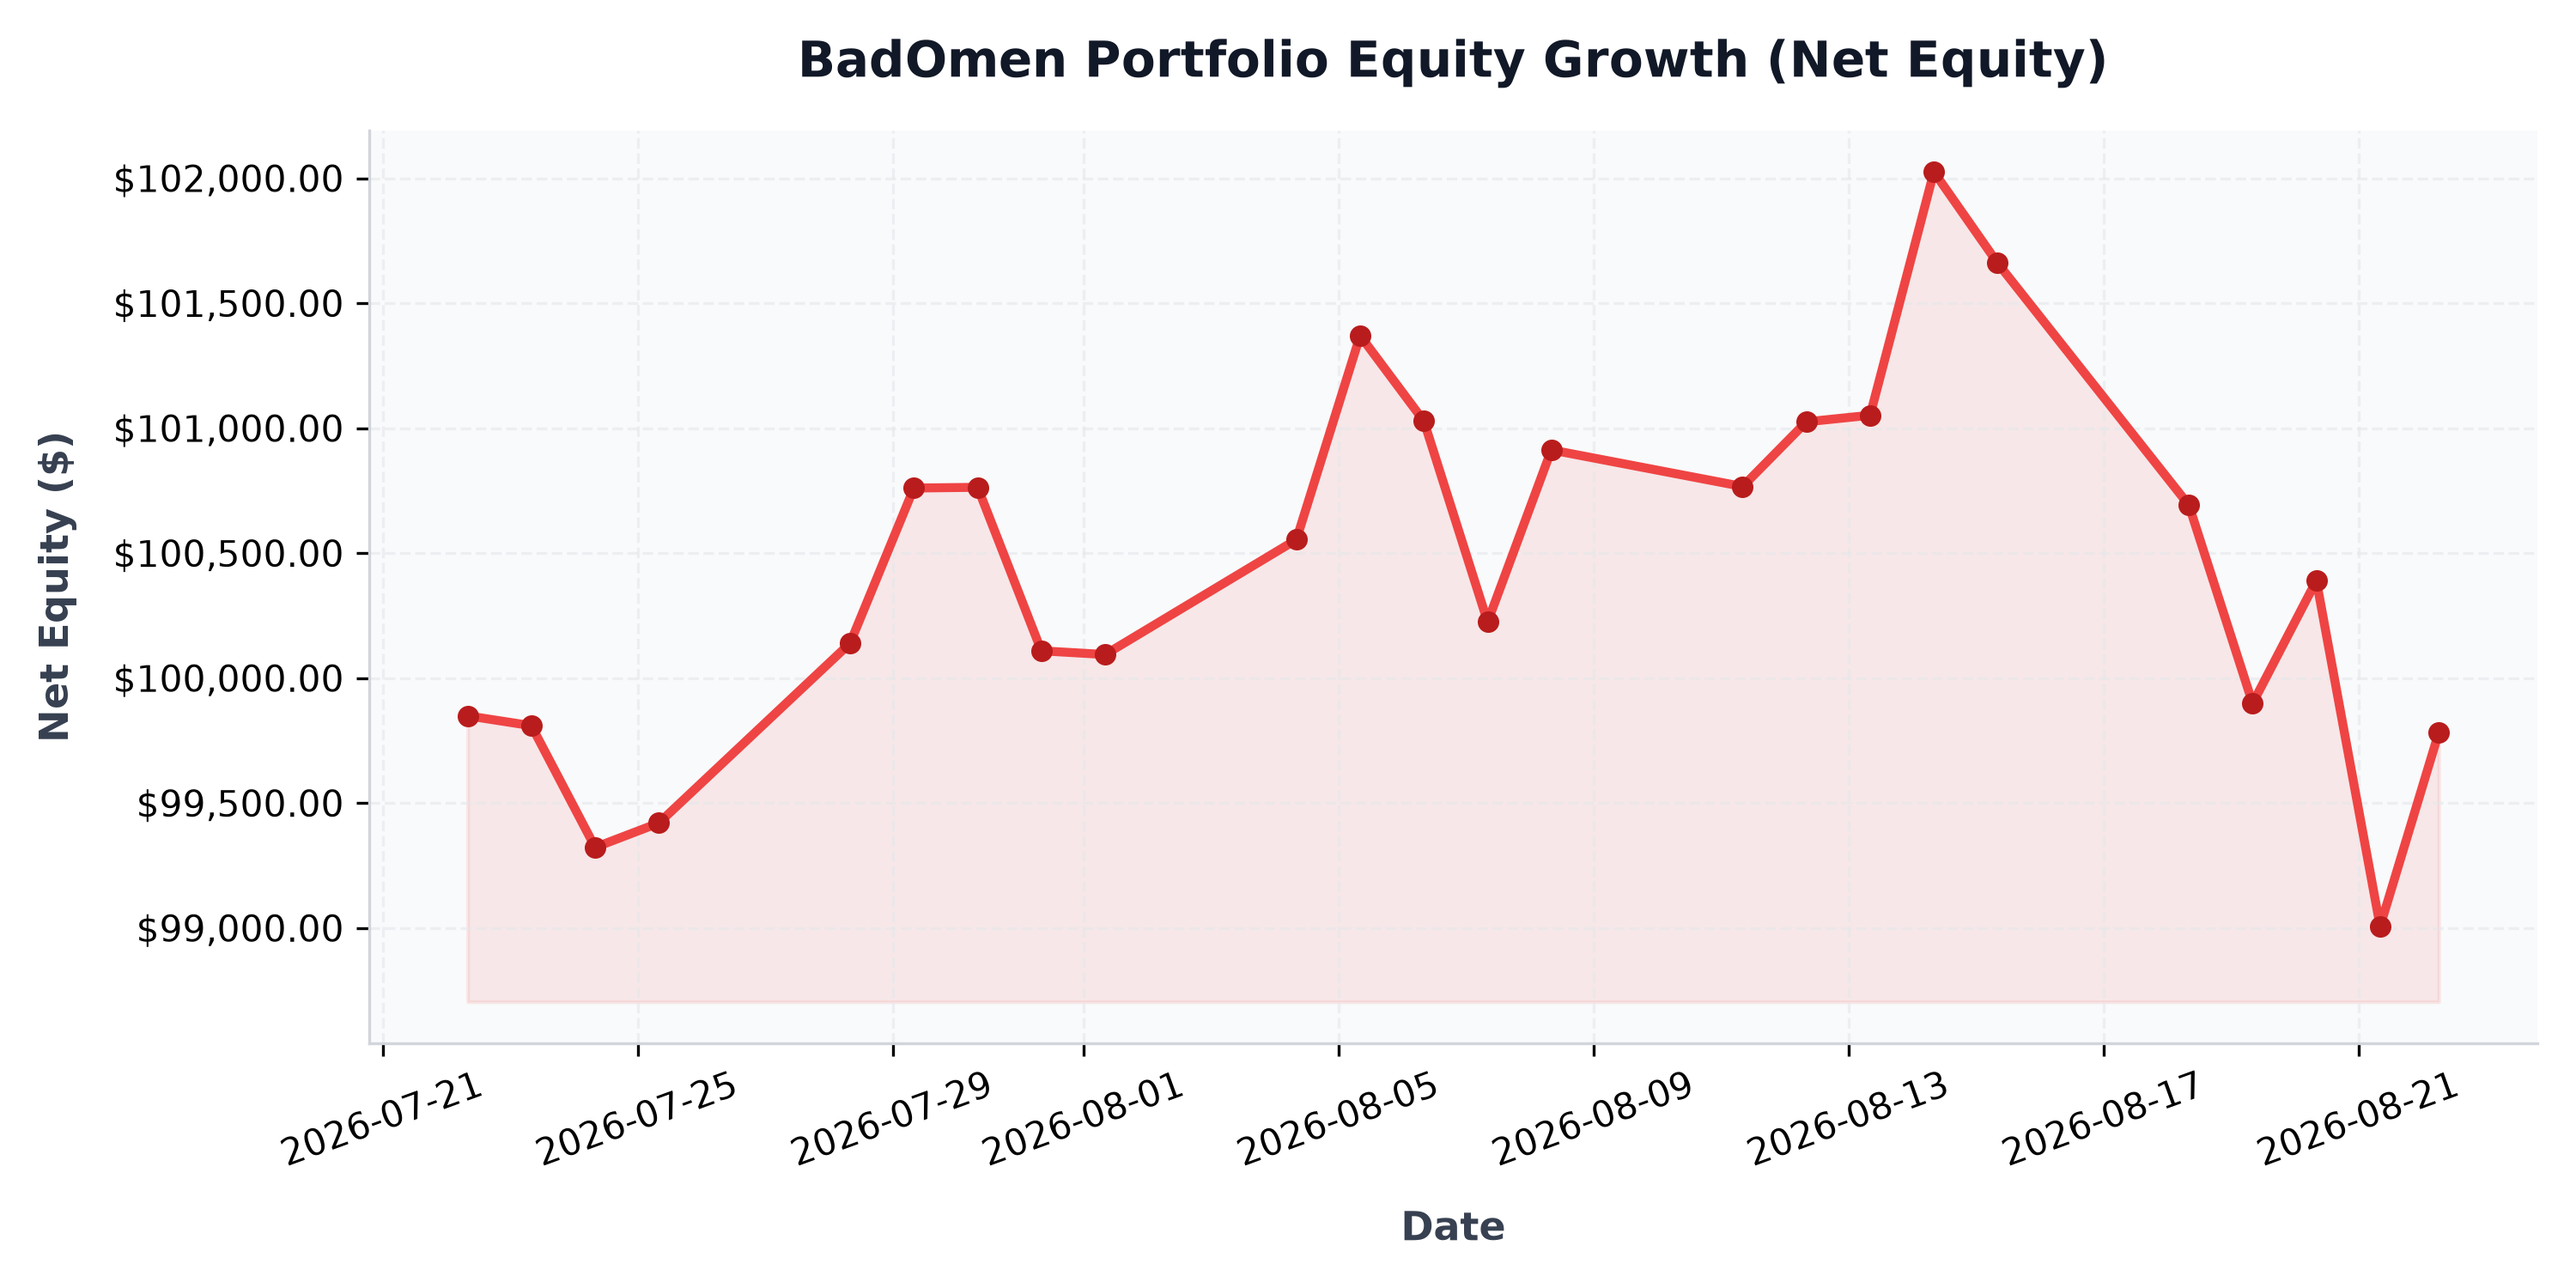
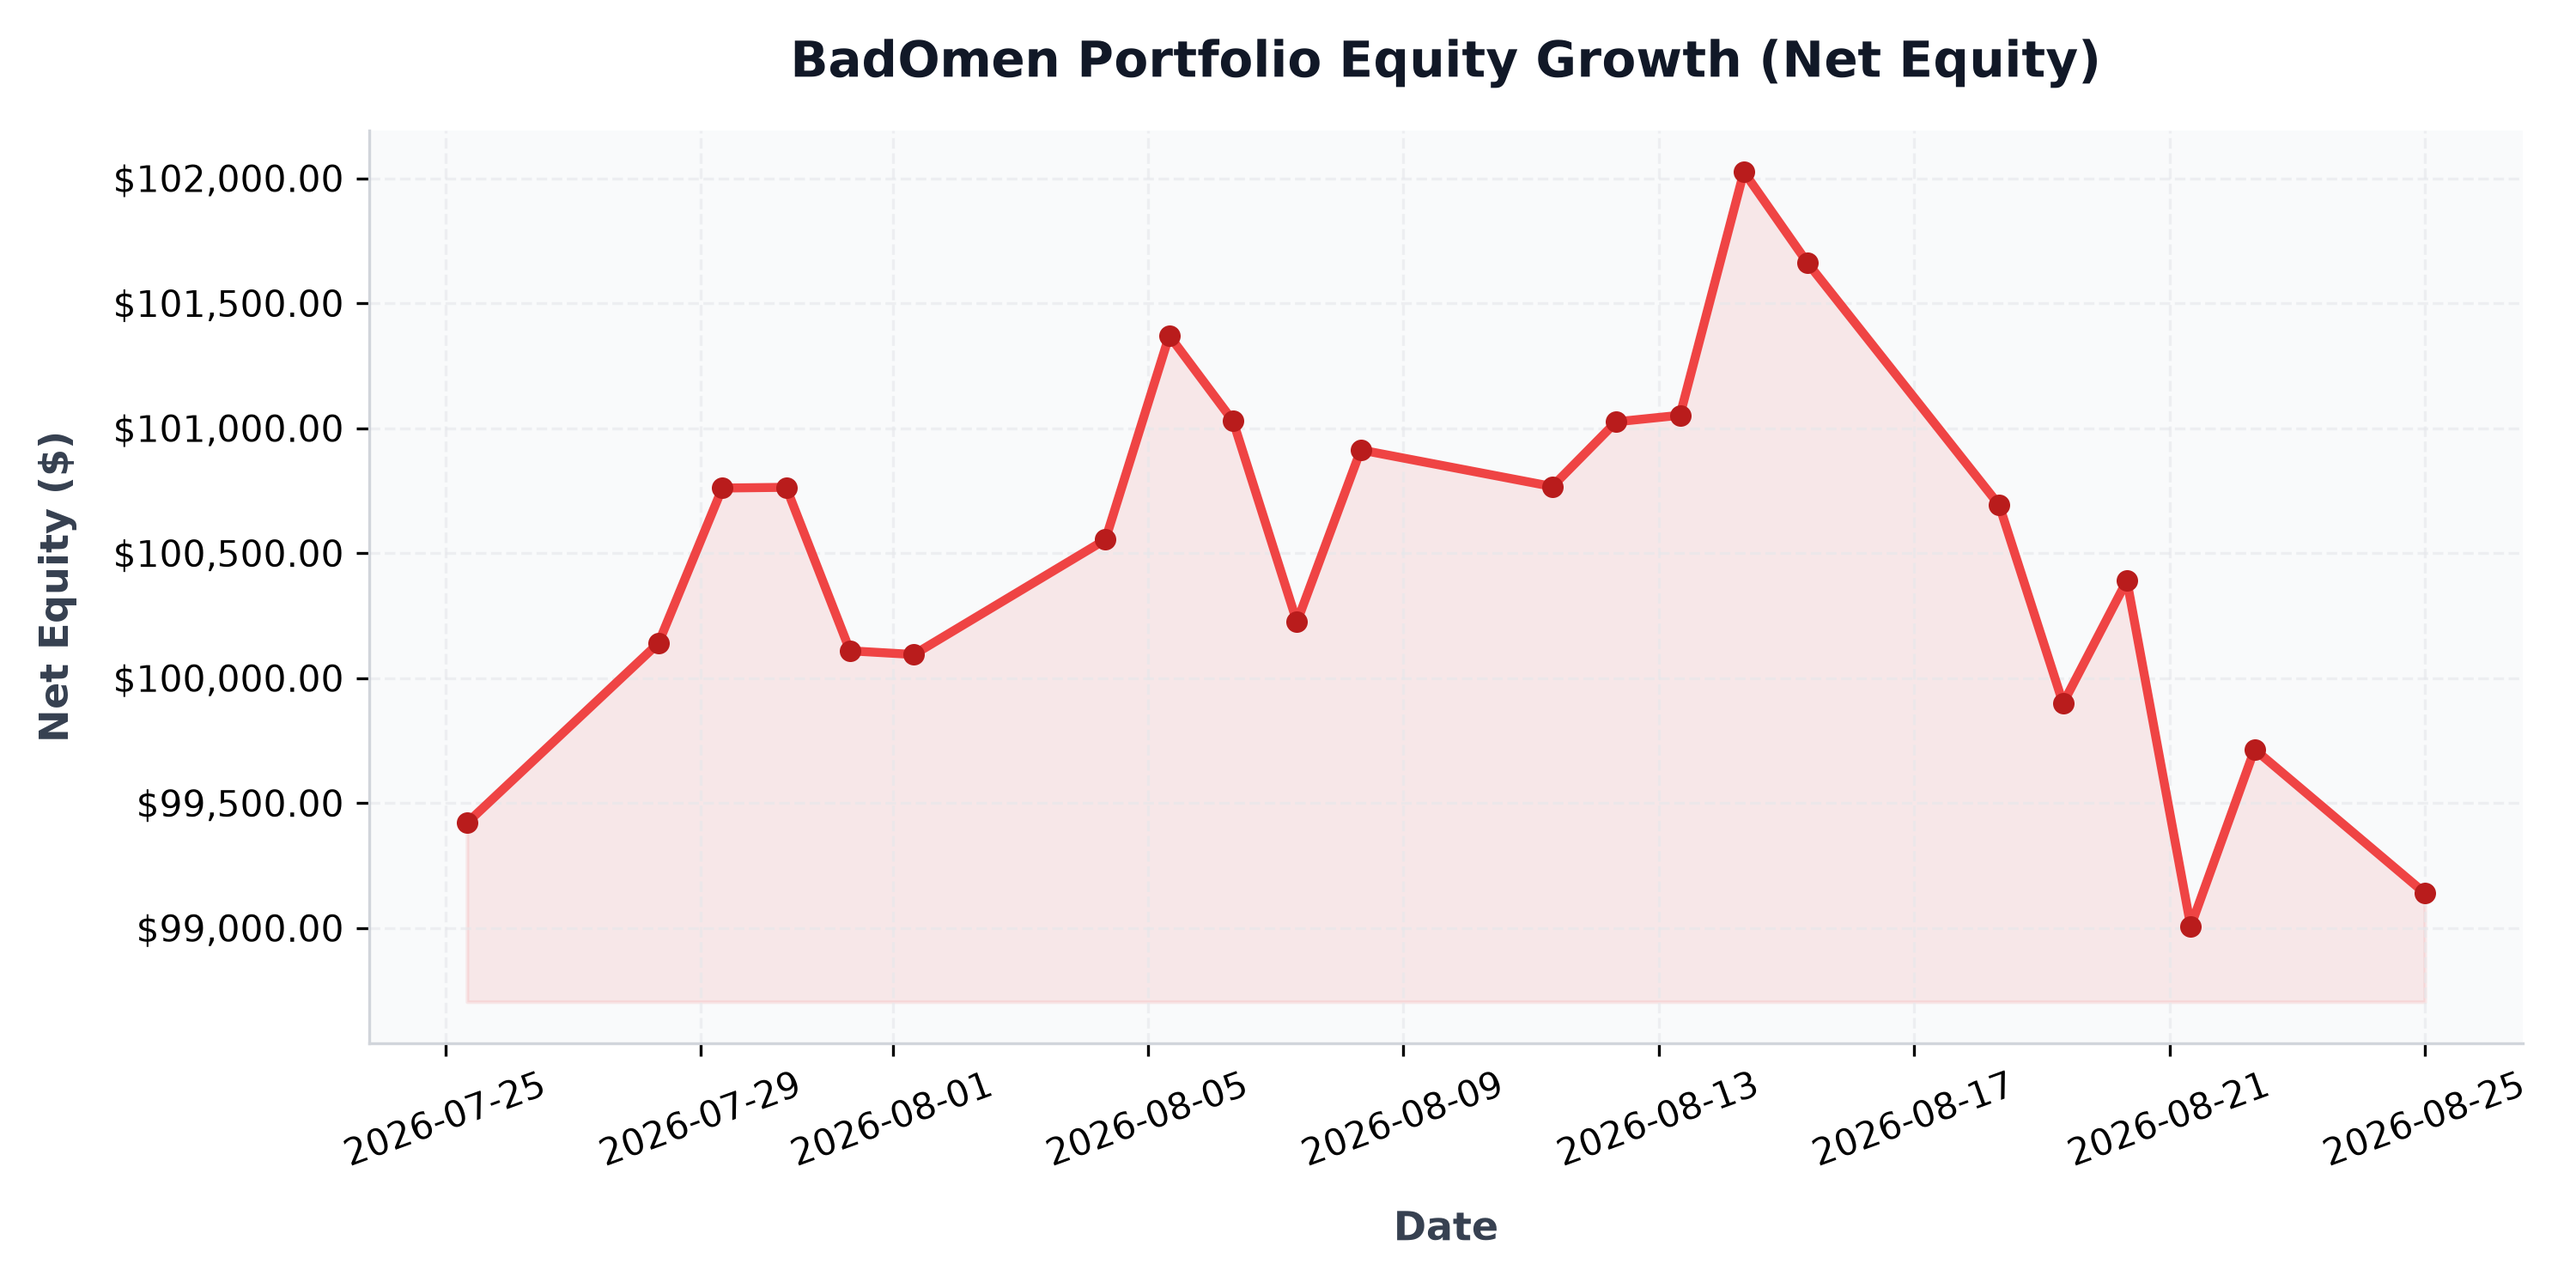
auto: daily portfolio status update - 2026-08-25 00:00:25

diff --git a/src/content/posts/portfolio-performance.md b/src/content/posts/portfolio-performance.md
@@ -1,6 +1,6 @@
 ---
 title: "BadOmen Algorithmic Portfolio Performance & PnL Report"
-pubDatetime: 2026-08-22T06:05:26.042080+08:00
+pubDatetime: 2026-08-25T00:00:25.152065+08:00
 description: "Live performance metrics, active holdings, and historic equity curve for the BadOmen automated paper trading portfolio."
 featured: true
 draft: false
@@ -16,11 +16,11 @@ Welcome to the live performance dashboard for **BadOmen**, our automated algorit
 ## 📊 Portfolio Summary
 | Performance Metric | Value | description |
 | :--- | :--- | :--- |
-| **Net Portfolio Equity** | **$99,782.19** | Total current liquidation value of cash and stock holdings |
-| **Total Unrealized P&L** | 🔴 **$-1,096.55** (-1.09%) | Total return of current open holdings |
+| **Net Portfolio Equity** | **$99,139.32** | Total current liquidation value of cash and stock holdings |
+| **Total Unrealized P&L** | 🔴 **$-1,729.19** (-1.71%) | Total return of current open holdings |
 | **Cash Balance** | $28,313.70 | Idle reserve currency available for limit orders |
-| **Buying Power** | $313,366.59 | Margin-backed buying power for entry allocations |
-| **Report Updated** | `2026-08-22 06:05:26 (SGT)` | Timestamp of daily execution and sync run |
+| **Buying Power** | $311,566.54 | Margin-backed buying power for entry allocations |
+| **Report Updated** | `2026-08-25 00:00:25 (SGT)` | Timestamp of daily execution and sync run |
 
 ## 📈 Net Equity Growth Curve
 The chart below illustrates the historical performance of the account starting from our baseline capital funding of $100,000.00.
@@ -35,35 +35,35 @@ The chart below illustrates the exposure of our currently held active positions 
 ## 💼 Current Position Holdings
 | Ticker | Industry | Shares Owned | Average Entry Cost | Current Price | Unrealized P&L | Return (%) |
 | :--- | :--- | :--- | :--- | :--- | :--- | :--- |
-| **AN** | Auto & Truck Dealerships | 5 | $188.51 | $199.49 | 🟢 +$54.91 | +5.83% |
-| **AVGO** | Semiconductors | 1 | $385.71 | $367.99 | 🔴 $-17.72 | -4.59% |
-| **BIRK** | Footwear & Accessories | 407 | $37.32 | $35.85 | 🔴 $-597.36 | -3.93% |
-| **BLBD** | Farm & Heavy Construction Machinery | 231 | $65.52 | $61.75 | 🔴 $-869.94 | -5.75% |
-| **BVN** | Other Precious Metals & Mining | 32 | $31.88 | $35.42 | 🟢 +$113.44 | +11.12% |
-| **CELH** | Beverages - Non-Alcoholic | 33 | $29.71 | $33.30 | 🟢 +$118.38 | +12.07% |
-| **CPRI** | Luxury Goods | 1042 | $14.55 | $13.65 | 🔴 $-939.68 | -6.20% |
-| **DUOL** | Software - Application | 14 | $131.04 | $145.77 | 🟢 +$206.18 | +11.24% |
-| **FIS** | Information Technology Services | 23 | $41.79 | $41.73 | 🔴 $-1.38 | -0.14% |
-| **GDDY** | Software - Infrastructure | 6 | $76.21 | $97.07 | 🟢 +$125.16 | +27.37% |
-| **GDS** | Information Technology Services | 30 | $32.77 | $32.85 | 🟢 +$2.40 | +0.24% |
-| **GGAL** | Banks - Regional | 17 | $56.04 | $41.45 | 🔴 $-248.02 | -26.03% |
-| **GOOGL** | Internet Content & Information | 3 | $319.44 | $345.20 | 🟢 +$77.28 | +8.06% |
-| **GPI** | Auto & Truck Dealerships | 3 | $316.15 | $261.85 | 🔴 $-162.90 | -17.18% |
-| **HUBS** | Software - Application | 8 | $221.18 | $240.00 | 🟢 +$150.55 | +8.51% |
-| **ITRI** | Scientific & Technical Instruments | 12 | $81.80 | $100.03 | 🟢 +$218.76 | +22.29% |
-| **KBR** | Engineering & Construction | 27 | $36.23 | $38.71 | 🟢 +$66.88 | +6.84% |
-| **META** | Internet Content & Information | 1 | $568.17 | $550.86 | 🔴 $-17.31 | -3.05% |
-| **NESR** | Oil & Gas Equipment & Services | 34 | $28.74 | $33.33 | 🟢 +$156.03 | +15.97% |
-| **NU** | Banks - Regional | 57 | $11.60 | $14.60 | 🟢 +$171.08 | +25.88% |
-| **ON** | Semiconductors | 10 | $90.45 | $74.24 | 🔴 $-162.15 | -17.93% |
-| **ORCL** | Software - Infrastructure | 5 | $181.95 | $146.70 | 🔴 $-176.25 | -19.37% |
-| **PATH** | Software - Infrastructure | 38 | $10.25 | $16.27 | 🟢 +$228.82 | +58.75% |
-| **PYPL** | Credit Services | 17 | $56.05 | $61.66 | 🟢 +$95.41 | +10.01% |
-| **QCOM** | Semiconductors | 15 | $193.68 | $160.94 | 🔴 $-491.11 | -16.90% |
-| **SMCI** | Computer Hardware | 22 | $29.25 | $37.22 | 🟢 +$175.34 | +27.25% |
-| **T** | Telecom Services | 47 | $20.85 | $25.32 | 🟢 +$210.09 | +21.44% |
-| **WEN** | Restaurants | 257 | $8.02 | $8.99 | 🟢 +$248.33 | +12.04% |
-| **ZG** | Internet Content & Information | 31 | $31.35 | $36.78 | 🟢 +$168.23 | +17.31% |
+| **AN** | Auto & Truck Dealerships | 5 | $188.51 | $198.38 | 🟢 +$49.34 | +5.23% |
+| **AVGO** | Semiconductors | 1 | $385.71 | $362.12 | 🔴 $-23.59 | -6.12% |
+| **BIRK** | Footwear & Accessories | 407 | $37.32 | $35.28 | 🔴 $-829.35 | -5.46% |
+| **BLBD** | Farm & Heavy Construction Machinery | 231 | $65.52 | $60.36 | 🔴 $-1,191.03 | -7.87% |
+| **BVN** | Other Precious Metals & Mining | 32 | $31.88 | $35.49 | 🟢 +$115.68 | +11.34% |
+| **CELH** | Beverages - Non-Alcoholic | 33 | $29.71 | $34.57 | 🟢 +$160.29 | +16.35% |
+| **CPRI** | Luxury Goods | 1042 | $14.55 | $13.61 | 🔴 $-986.57 | -6.51% |
+| **DUOL** | Software - Application | 14 | $131.04 | $146.73 | 🟢 +$219.60 | +11.97% |
+| **FIS** | Information Technology Services | 23 | $41.79 | $41.78 | 🔴 $-0.12 | -0.01% |
+| **GDDY** | Software - Infrastructure | 6 | $76.21 | $100.47 | 🟢 +$145.56 | +31.83% |
+| **GDS** | Information Technology Services | 30 | $32.77 | $31.52 | 🔴 $-37.50 | -3.81% |
+| **GGAL** | Banks - Regional | 17 | $56.04 | $42.88 | 🔴 $-223.71 | -23.48% |
+| **GOOGL** | Internet Content & Information | 3 | $319.44 | $350.88 | 🟢 +$94.32 | +9.84% |
+| **GPI** | Auto & Truck Dealerships | 3 | $316.15 | $260.87 | 🔴 $-165.84 | -17.48% |
+| **HUBS** | Software - Application | 8 | $221.18 | $242.32 | 🟢 +$169.11 | +9.56% |
+| **ITRI** | Scientific & Technical Instruments | 12 | $81.80 | $98.51 | 🟢 +$200.52 | +20.43% |
+| **KBR** | Engineering & Construction | 27 | $36.23 | $37.97 | 🟢 +$46.90 | +4.79% |
+| **META** | Internet Content & Information | 1 | $568.17 | $555.67 | 🔴 $-12.50 | -2.20% |
+| **NESR** | Oil & Gas Equipment & Services | 34 | $28.74 | $33.03 | 🟢 +$146.03 | +14.94% |
+| **NU** | Banks - Regional | 57 | $11.60 | $14.86 | 🟢 +$185.90 | +28.12% |
+| **ON** | Semiconductors | 10 | $90.45 | $71.89 | 🔴 $-185.68 | -20.53% |
+| **ORCL** | Software - Infrastructure | 5 | $181.95 | $143.80 | 🔴 $-190.75 | -20.97% |
+| **PATH** | Software - Infrastructure | 38 | $10.25 | $16.59 | 🟢 +$240.73 | +61.80% |
+| **PYPL** | Credit Services | 17 | $56.05 | $62.00 | 🟢 +$101.15 | +10.62% |
+| **QCOM** | Semiconductors | 15 | $193.68 | $157.99 | 🔴 $-535.42 | -18.43% |
+| **SMCI** | Computer Hardware | 22 | $29.25 | $35.30 | 🟢 +$133.21 | +20.70% |
+| **T** | Telecom Services | 47 | $20.85 | $25.70 | 🟢 +$227.95 | +23.26% |
+| **WEN** | Restaurants | 257 | $8.02 | $8.90 | 🟢 +$226.49 | +10.98% |
+| **ZG** | Internet Content & Information | 31 | $31.35 | $37.48 | 🟢 +$190.08 | +19.56% |
 
 ## 🔴 Recent Realized Trades
 | Ticker | Shares Sold | Entry Price | Exit Price | Strategy Trigger | Realized Return | Exit Date |
